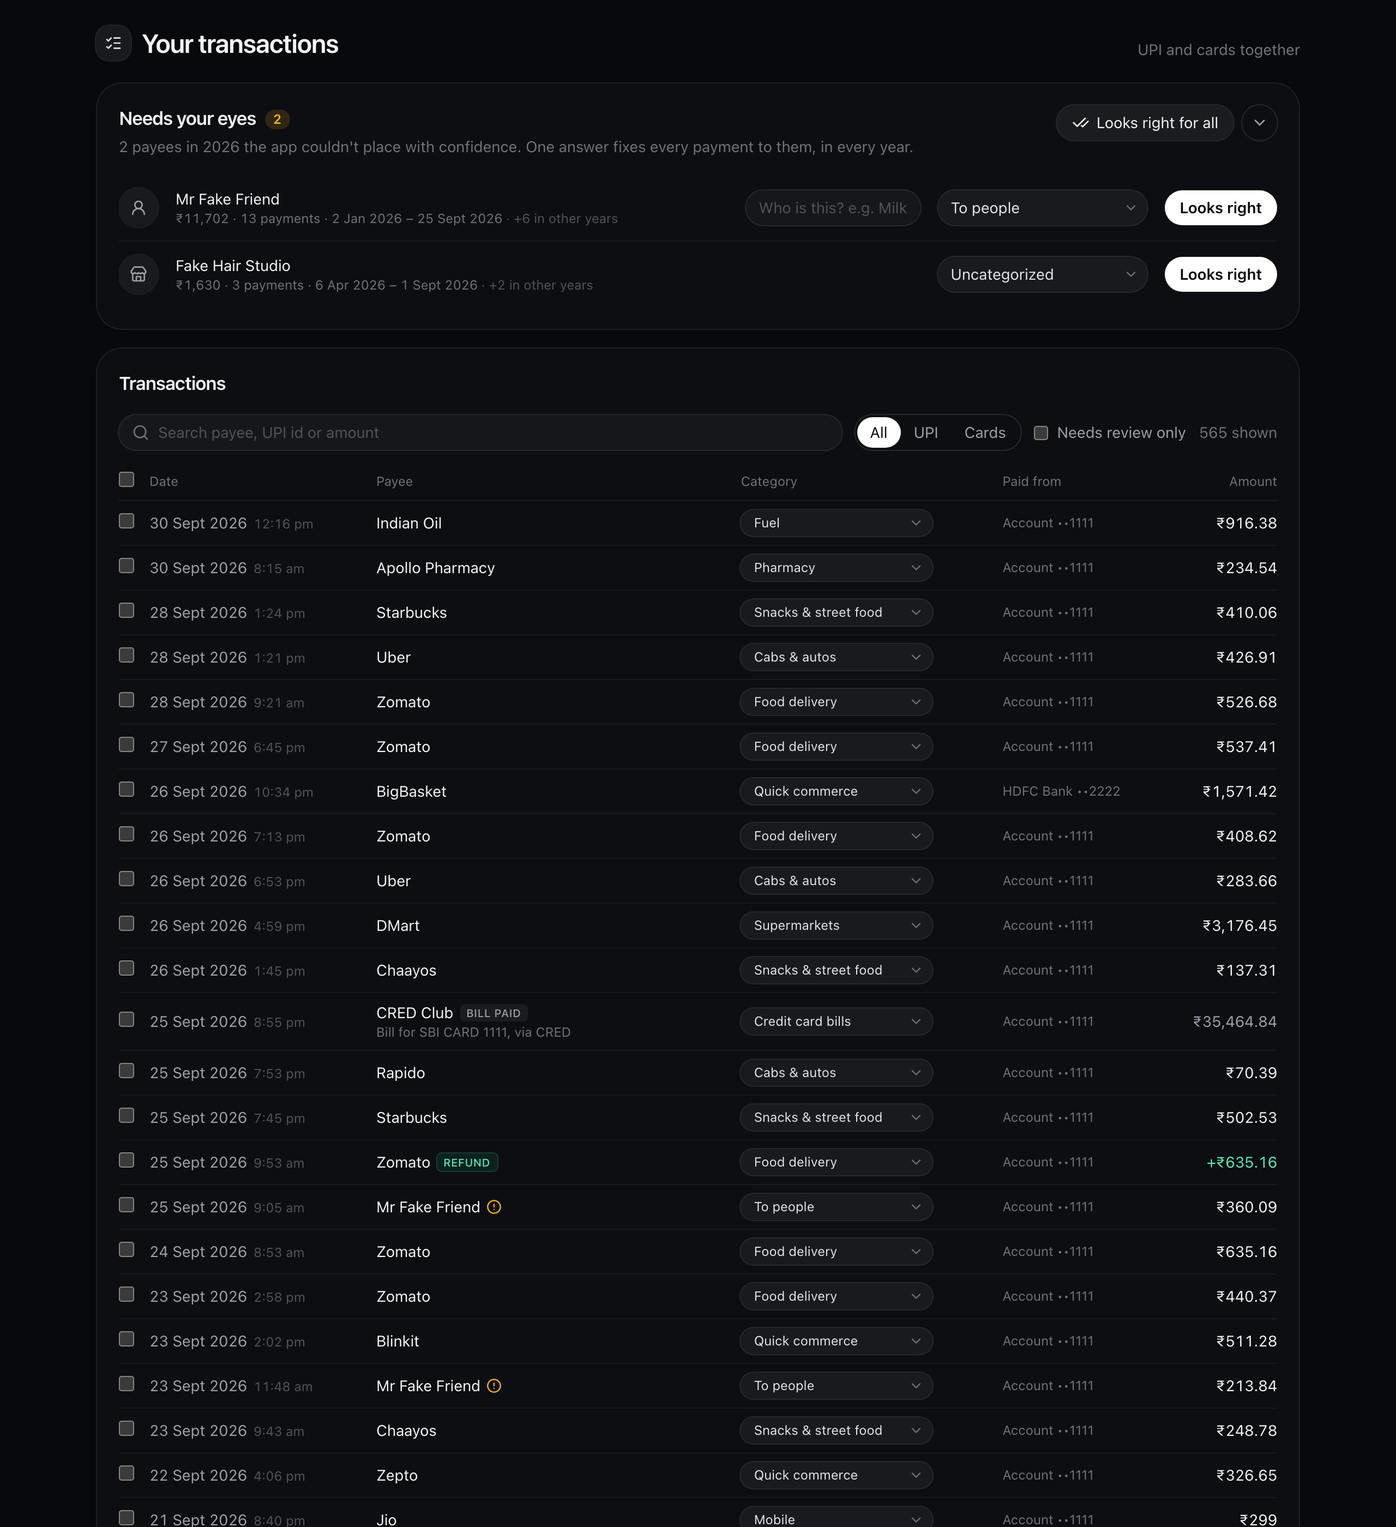
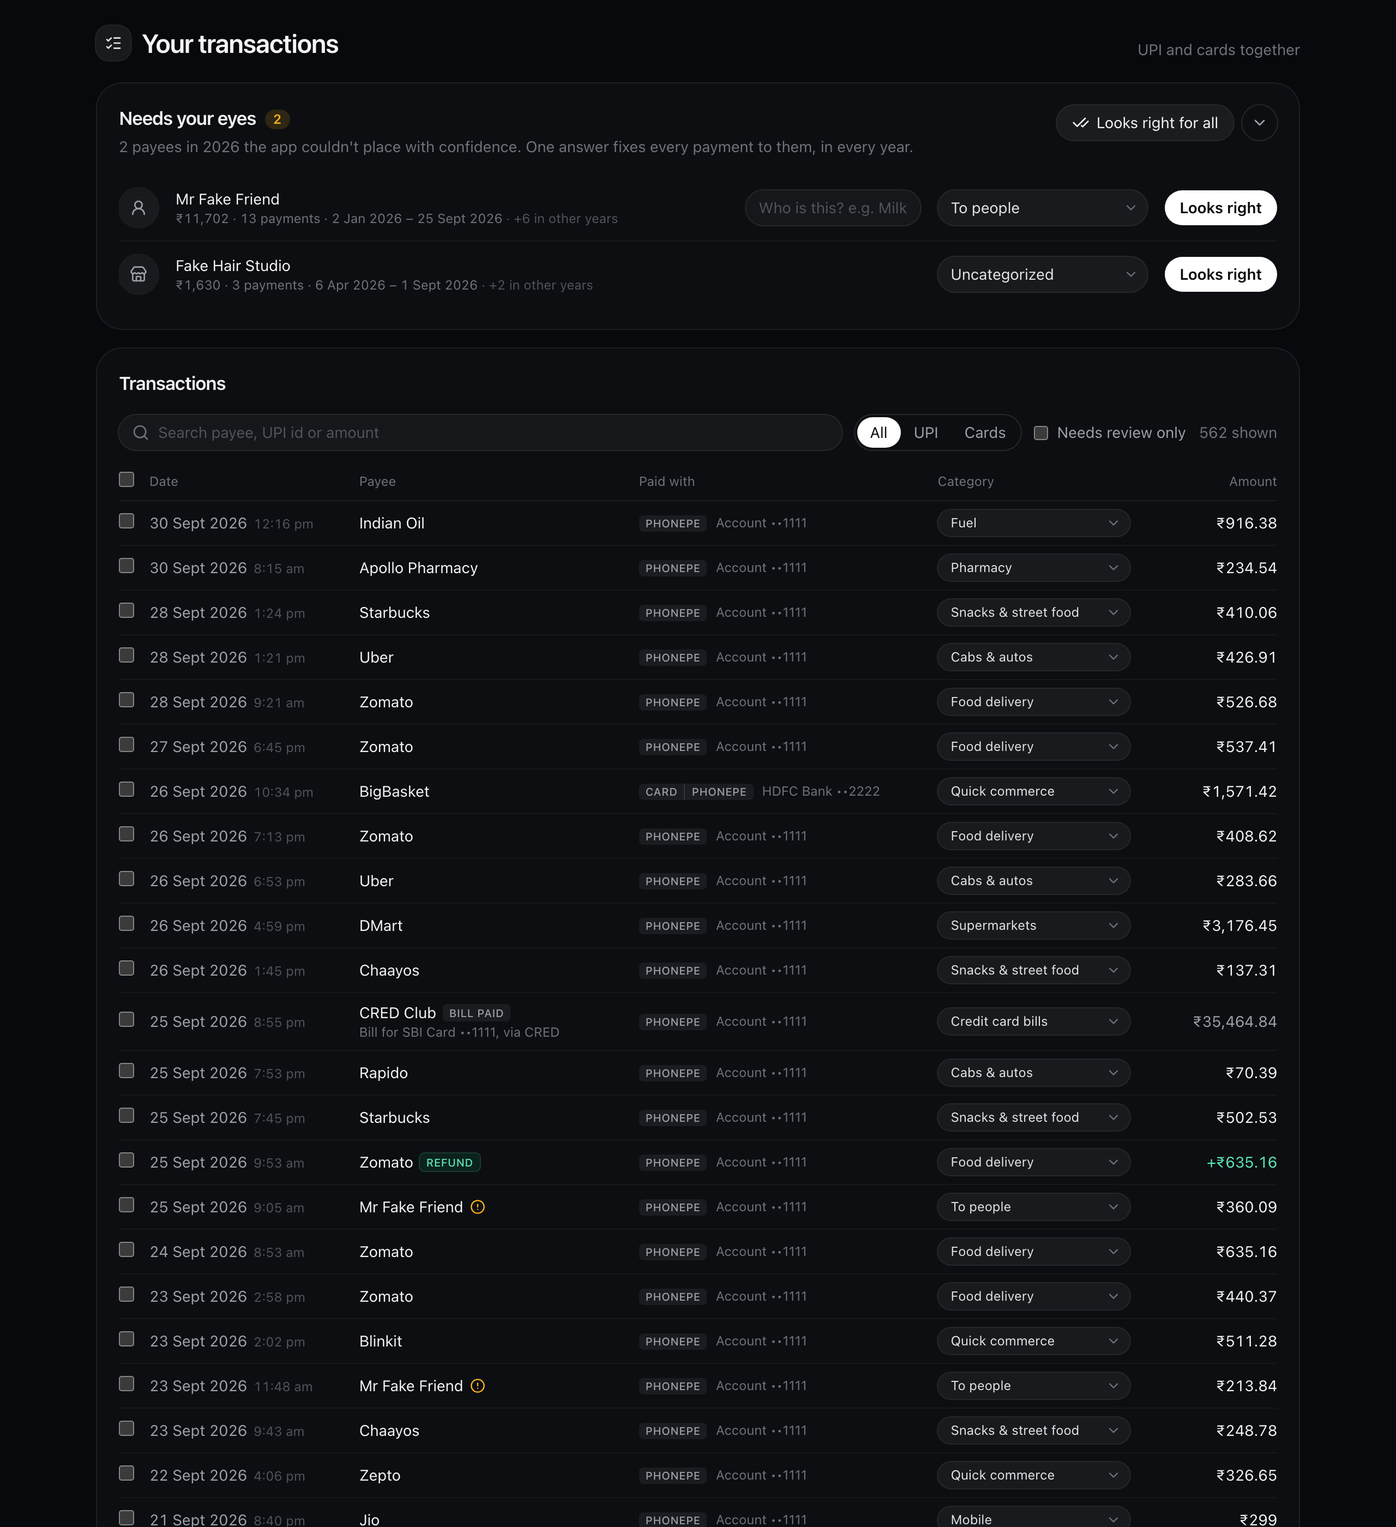
Paid with: how each payment was made, in one chip
The transactions list's columns are now Date, Payee, Paid with, Category,
Amount. Paid with shows how each payment was made, as the files show it, beside
the account or card: CARD (the card's number), PHONEPE, GPAY or PAYTM (UPI in
that app), UPI (the app isn't known), or a card through an app in one two-part
chip: CARD | PHONEPE (a RuPay credit card on UPI), CARD | GPAY, CARD | UPI (only
the card's statement shows it). A card is known as the Paid from label knows
it; tap, swipe and online aren't told apart, since statements don't say. The
chip's tooltip says it in words; a long card name shows whole on hover. The old
Card chip beside the payee is gone: one place for how it was paid.

- lib/ledger.ts howPaid, tested for every case (web/tests/ledger.test.ts).
- Checked in a browser on the demo year: all 562 rows' chips are what each
  payment's data says (written apart from the page's code).
- Docs: DECISIONS #21, GUIDE, ARCHITECTURE, AGENTS; README pictures retaken.
- The roadmap's list: this done, and two to do, written exactly with nothing
  from a real file: page footers taken into payee names (a reader bug), and
  ICCL (BSE's clearing corporation, paid for mutual funds) in the merchant list.

diff --git a/web/src/components/dash/TransactionsTable.tsx b/web/src/components/dash/TransactionsTable.tsx
@@ -3,7 +3,7 @@ import { AlertCircle, Check, CornerDownRight, Search, Sparkles, Undo2, X } from 
 import { Fragment, useEffect, useMemo, useRef, useState } from 'react'
 import { api } from '../../api'
 import { cardName } from '../../lib/cards'
-import { NO_NAME, billNote, billSides, cardSide, countsAs, isCardBill, isIgnored, oneRowPerPayment, paidFromLabel, rowTag, topOf, type Bucket } from '../../lib/ledger'
+import { NO_NAME, billNote, billSides, cardSide, countsAs, howPaid, isCardBill, isIgnored, oneRowPerPayment, paidFromLabel, rowTag, topOf, type Bucket } from '../../lib/ledger'
 import { plural } from '../../lib/format'
 import { inrExact } from '../../lib/money'
 import { dayLabel, timeLabel } from '../../lib/periods'
@@ -423,8 +423,8 @@ export function TransactionsTable({
               </th>
               <th className="py-2 pr-4 font-normal">Date</th>
               <th className="py-2 pr-4 font-normal">Payee</th>
+              <th className="py-2 pr-4 font-normal">Paid with</th>
               <th className="py-2 pr-4 font-normal">Category</th>
-              <th className="py-2 pr-4 font-normal">Paid from</th>
               <th className="py-2 text-right font-normal">Amount</th>
             </tr>
           </thead>
@@ -463,14 +463,6 @@ export function TransactionsTable({
                         {t.payee}
                       </span>
                     )}
-                    {t.channel === 'card' && (
-                      <span
-                        title="From a credit card statement"
-                        className="shrink-0 rounded bg-white/[0.06] px-1.5 py-px text-[10px] font-medium tracking-wide text-zinc-400 uppercase"
-                      >
-                        Card
-                      </span>
-                    )}
                     {tag(t)}
                     {statementChip(cardSide(t, sides), names.card)}
                     {t.needsReview && <AlertCircle aria-label="Needs review" className="size-3.5 shrink-0 text-[var(--color-status-warning)]" />}
@@ -478,14 +470,18 @@ export function TransactionsTable({
                   </div>
                   {detail(t) && <div className="truncate text-xs text-zinc-500" title={detail(t) || undefined}>{detail(t)}</div>}
                 </td>
+                <td className="py-2 pr-4 text-xs text-zinc-500">
+                  <div className="flex max-w-60 items-center gap-2">
+                    {methodChip(t)}
+                    {/* a long card name is cut short: the whole of it, and what it is, on hover */}
+                    <span className="min-w-0 truncate" title={[paidFromLabel(t, cards, accounts).title, paidFromLabel(t, cards, accounts).detail].filter(Boolean).join(' · ')}>
+                      {paidFromLabel(t, cards, accounts).title}
+                    </span>
+                  </div>
+                </td>
                 <td className="py-2 pr-4">
                   <div className="w-44">
                     <CategorySelect tree={tree} value={t.category} onChange={(c) => setOne(t, c)} compact />
-                  </div>
-                </td>
-                <td className="py-2 pr-4 text-xs text-zinc-500">
-                  <div className="max-w-40 truncate" title={paidFromLabel(t, cards, accounts).detail || undefined}>
-                    {paidFromLabel(t, cards, accounts).title}
                   </div>
                 </td>
                 {/* a card bill is neither money in nor spending: no sign, no colour */}
@@ -648,6 +644,25 @@ function OfferRow({
 
 /** A category's name as the dropdown shows it: a top-level category with sub-categories reads "Groceries (general)". */
 /** A row's tag (rowTag): green where money comes in, neutral otherwise. */
+/** How a payment was made ("Paid with"): one chip, in two parts for a card through an app ("Card · PhonePe"). Its
+ *  tooltip says it in words. */
+function methodChip(t: Transaction) {
+  const how = howPaid(t)
+  if (!how) return null
+  return (
+    <span
+      title={how.title}
+      className="inline-flex shrink-0 items-center rounded bg-white/[0.06] text-[10px] font-medium tracking-wide whitespace-nowrap text-zinc-400 uppercase"
+    >
+      {how.parts.map((part, i) => (
+        <span key={part} className={`px-1.5 py-px ${i ? 'border-l border-white/10' : ''}`}>
+          {part}
+        </span>
+      ))}
+    </span>
+  )
+}
+
 /** "+ Statement" on the row of a bill payment whose card's side (the statement's "PAYMENT RECEIVED") is folded into it:
  *  one payment, shown once. */
 function statementChip(onCard: Transaction | undefined, card: (id: string) => string) {

diff --git a/web/tests/ledger.test.ts b/web/tests/ledger.test.ts
@@ -1,7 +1,7 @@
 // How payments are bucketed, placed in months, and told apart by card. Fake data only.
 import assert from 'node:assert/strict'
 import { describe, test } from 'node:test'
-import { billNote, billSides, bucketOf, cardSide, cardsOnUpi, countsAs, cycleShares, describeSource, isCardBill, monthShares, oneRowPerPayment, rowTag, statementMonths, viewFor } from '../src/lib/ledger'
+import { billNote, billSides, bucketOf, cardSide, cardsOnUpi, countsAs, cycleShares, describeSource, howPaid, isCardBill, monthShares, oneRowPerPayment, rowTag, statementMonths, viewFor } from '../src/lib/ledger'
 import { inr, inrExact } from '../src/lib/money'
 import type { Transaction } from '../src/types'
 import { bill, card, ledger, statement, txn } from './fixtures'
@@ -154,5 +154,45 @@ describe('one payment, one row', () => {
     assert.equal(billNote(direct, own, billSides([direct, itsRow]), names), 'Bill for Fake Bank ••1141')
     assert.equal(cardSide(direct, billSides([direct, itsRow]))?.id, 'row')
     assert.equal(billNote(itsRow, own, billSides([itsRow]), names), null) // the statement's row on its own: nothing to add
+  })
+})
+
+describe('how it was paid', () => {
+  const CARD = card('fakebank-1141', '1141')
+  const parts = (over: Partial<Transaction>) => howPaid(txn('2026-08-20', 500, over))?.parts
+  const title = (over: Partial<Transaction>) => howPaid(txn('2026-08-20', 500, over))?.title ?? ''
+
+  test('with the card: its number, or the card through an app', () => {
+    // a card statement's purchase: shop, tap or online, which a statement doesn't say, so it isn't guessed
+    const bought = { channel: 'card' as const, app: null, card: CARD.id, paidFrom: 'XXXX1141' }
+    assert.deepEqual(parts(bought), ['Card'])
+    assert.match(title(bought), /in a shop, tapped, or online/)
+    assert.match(title({ ...bought, direction: 'credit', kind: 'refund' }), /^On your card/)
+    // a RuPay credit card on UPI, in PhonePe: known card, or only its "XXXX41" from the app
+    assert.deepEqual(parts({ channel: 'upi', app: 'phonepe', card: CARD.id }), ['Card', 'PhonePe'])
+    assert.deepEqual(parts({ channel: 'upi', app: 'phonepe', card: null, paidFrom: 'XXXX41' }), ['Card', 'PhonePe'])
+    // a card on UPI only the card's statement shows: the app isn't known
+    assert.deepEqual(parts({ channel: 'upi', app: null, card: CARD.id, paidFrom: 'XXXX1141' }), ['Card', 'UPI'])
+    assert.match(title({ channel: 'upi', app: null, card: CARD.id }), /the app isn't known/)
+    // Google Pay paying with a card (the Play Store and the like)
+    assert.deepEqual(parts({ channel: 'card', app: 'gpay', card: null, paidFrom: 'XXXX1141' }), ['Card', 'GPay'])
+  })
+
+  test('on UPI from your account: the app it was paid in, or just UPI', () => {
+    assert.deepEqual(parts({ app: 'phonepe', paidFrom: 'XX1111' }), ['PhonePe'])
+    assert.deepEqual(parts({ app: 'gpay', paidFrom: 'XX1111' }), ['GPay'])
+    assert.deepEqual(parts({ app: 'paytm', paidFrom: 'XX1111' }), ['Paytm'])
+    assert.deepEqual(parts({ app: null, paidFrom: 'XX1111' }), ['UPI'])
+    assert.deepEqual(parts({ app: 'some-new-app', paidFrom: 'XX1111' }), ['UPI']) // an app Plutus doesn't know isn't named
+    assert.match(title({ app: 'gpay' }), /^Paid on UPI in Google Pay/)
+    assert.match(title({ app: 'phonepe', direction: 'credit', kind: 'income' }), /^Received on UPI in PhonePe/)
+    // an account's last four digits that happen to look like a card's: an account, unless one of your cards has them
+    assert.deepEqual(parts({ app: 'phonepe', card: null, paidFrom: 'XXXX4321' }), ['PhonePe'])
+  })
+
+  test('a PhonePe gift card balance is PhonePe, not UPI; anything else unknown shows nothing', () => {
+    assert.deepEqual(parts({ app: 'phonepe', paidFrom: 'Gift card' }), ['PhonePe'])
+    assert.match(title({ app: 'phonepe', paidFrom: 'Gift card' }), /gift card balance/)
+    assert.equal(howPaid(txn('2026-08-20', 500, { channel: 'other' })), null)
   })
 })

diff --git a/web/src/lib/ledger.ts b/web/src/lib/ledger.ts
@@ -510,6 +510,40 @@ export function paidFromLabel(t: Transaction, cards: Instrument[], accounts: Own
   return t.paidFrom ? describeSource(t.paidFrom, cards, accounts) : { title: '—', detail: '' }
 }
 
+/** The UPI apps whose histories Plutus reads (a short name for the chip, the full one for words). */
+const APPS: Record<string, { chip: string; name: string }> = {
+  phonepe: { chip: 'PhonePe', name: 'PhonePe' },
+  gpay: { chip: 'GPay', name: 'Google Pay' },
+  paytm: { chip: 'Paytm', name: 'Paytm' },
+}
+
+/** How a payment was made, for the transactions list's "Paid with": the card's number ("Card"), a UPI app
+ *  ("PhonePe", "GPay", "Paytm", or "UPI" when the app isn't known), or a card through an app ("Card · PhonePe": a
+ *  RuPay credit card on UPI; "Card · GPay": a card in Google Pay). A card is known the way `describeSource` knows it:
+ *  a card's row, a card of yours, or an app's "XXXX99". Only what the files say: a statement doesn't say whether a
+ *  card was tapped, swiped or used online, so none of that is guessed. */
+export function howPaid(t: Transaction): { parts: string[]; title: string } | null {
+  if (t.channel === 'other') return null
+  const app = t.app ? APPS[t.app] : undefined // an app Plutus doesn't know isn't named
+  const received = t.direction === 'credit'
+  if (/^gift card$/i.test(t.paidFrom ?? '')) return { parts: [app?.chip ?? 'PhonePe'], title: 'Paid in PhonePe from your gift card balance' }
+  if (t.channel === 'card') {
+    if (app) return { parts: ['Card', app.chip], title: `${received ? 'Back to your card' : 'Paid with your card'} in ${app.name}` }
+    return received
+      ? { parts: ['Card'], title: 'On your card: money back to it, or a payment to it' }
+      : { parts: ['Card'], title: "Paid with your card's number: in a shop, tapped, or online (the statement doesn't say which)" }
+  }
+  const withCard = !!t.card || /^X{4}\d{2}$/i.test(t.paidFrom ?? '')
+  if (withCard) {
+    return app
+      ? { parts: ['Card', app.chip], title: `${received ? 'Back to your credit card' : 'Paid with your credit card'} on UPI, in ${app.name}` }
+      : { parts: ['Card', 'UPI'], title: `${received ? 'Back to your credit card' : 'Paid with your credit card'} on UPI: your card's statement shows it, the app isn't known` }
+  }
+  return app
+    ? { parts: [app.chip], title: `${received ? 'Received' : 'Paid'} on UPI in ${app.name}` }
+    : { parts: ['UPI'], title: `${received ? 'Received' : 'Paid'} on UPI; the app isn't known` }
+}
+
 /** "XX4321" → Account ••4321, "XXXX99" → Card ••99 (+ which card of yours it is), "XXXX4321" → that card. */
 export function describeSource(mask: string, cards: Instrument[], accounts: OwnAccount[] = []): { title: string; detail: string } {
   if (/^gift card$/i.test(mask)) return { title: 'PhonePe gift card', detail: 'Cashback balance' }

diff --git a/docs/ROADMAP.md b/docs/ROADMAP.md
@@ -13,6 +13,12 @@ The owner's list of upgrades, agreed on 7 October 2026. Each has its notes below
 4. [Measure the suggested local models](#measure-the-suggested-local-models-on-plutuss-own-jobs): needs the model
    downloaded by its owner first; Plutus never downloads one.
 5. [Ask Plutus, next](#ask-plutus-next): why questions, saved chats if wanted, actions from the chat.
+6. ~~"Paid with" in the transactions list~~: done; see [DECISIONS.md](DECISIONS.md) #21.
+7. [Page footers in payee names](#page-footers-in-payee-names): a statement reader bug.
+8. [ICCL in the merchant list](#iccl-in-the-merchant-list): payments for mutual funds left uncategorized.
+
+Each is done exactly: reproduced with fake data first, nothing assumed about a file or a name that a source or a
+test hasn't shown.
 
 ## Discussed, not built
 
@@ -24,6 +30,28 @@ India's seasons as periods in `web/src/lib/askRules.ts`, the same as the AI is t
 February, summer March to June, monsoon July to September; "last winter" the latest one that has ended, "this
 monsoon" or "the monsoon" the latest one that has begun. A season with a year ("winter 2025": which winter?) stays
 unsure and goes to the AI. Tests in `web/tests/askRules.test.ts`.
+
+### Page footers in payee names
+
+Seen on a real statement (not copied here): a payee read as "<a merchant> <city> Page 16 of", and its row's full
+wording ends "Page 16 of 19": the page's footer was taken into a row's description. Where it joins isn't known yet and
+must be found, not guessed: reproduce it in `tests/fake_cards.py` (a statement whose footer "Page N of M" sits under a
+page's last row, in each layout the readers know), see which step takes it in (`card_statement.read_rows`,
+`shape_reader.py`, wrapped-line joining, or `clean_merchant`), fix it in general (a page's furniture never joins a
+row), then follow the readers' procedure in [READERS.md](READERS.md): `make test`, `make measure` with nothing wrong or
+unread, and `PARSER_VERSIONS` bumped so files read before are read again.
+
+### ICCL in the merchant list
+
+Payments to "ICCLGroww" (seen in a real UPI history; the names are public) are left Uncategorized. ICCL is the Indian
+Clearing Corporation Ltd, a wholly owned subsidiary of BSE that clears and settles its segments, the mutual fund one
+(StAR MF) included; brokers' mutual fund purchases are paid to it (sources:
+[BSE](https://bseindia.com/downloads1/Indian_Clearing_Corporation_Limited.PDF),
+[Zerodha](https://support.zerodha.com/category/mutual-funds/payments-and-orders/payment-methods/articles/add-funds-coin-new)).
+So a payment to ICCL is an investment, whichever platform's name follows it. To do, each step checked rather than
+assumed: how the name is written in each source (PhonePe, Google Pay, card and bank statements: "ICCL", "ICCLGroww",
+"Indian Clearing Corporation"), an entry in `app/seed/merchants.json` under Investments with a test, and what money
+back from ICCL (a redemption, or an order that wasn't allotted) counts as.
 
 ### Ask Plutus, next
 

diff --git a/docs/DECISIONS.md b/docs/DECISIONS.md
@@ -196,3 +196,19 @@ rows; a payment and its posting in different years show in each year's list on t
 **Where**: `app/categorize.py` (`link_card_bills`), `app/billing.py` (`statement_bills`), `app/ledger.py` (`_place`);
 `web/src/lib/ledger.ts` (`billSides`, `oneRowPerPayment`, `billNote`, `cardSide`),
 `components/dash/TransactionsTable.tsx`.
+
+## 21. How a payment was made: one chip, from what the files say
+
+**Decision**: each row of the transactions list says how the payment was made in one neutral chip in the "Paid with"
+column (right after the payee, before the category: Date, Payee, Paid with, Category, Amount, as the owner set it),
+beside the account or card: **Card** (the card's number), **PhonePe**, **GPay** or **Paytm** (UPI in that
+app), **UPI** (the app isn't known), or a card through an app in one chip of two parts (**Card · PhonePe**, a RuPay
+credit card on UPI; **Card · GPay**; **Card · UPI** when only the card's statement shows it). A card is known the
+way the "Paid from" label knows it; the app is the one whose history the payment came from. Its tooltip says it in
+words.
+**Why**: the owner asked for card, card-on-UPI and each app to be told apart. Kept in its own column, the chips line
+up for scanning and sit with the account they describe; the payee column keeps only status tags (Bill paid, Refund,
++ Statement). No brand colours or logos: the look stays neutral, and the app names only identify where a payment was
+read. Tap, swipe and online aren't told apart because statements don't reliably say which, and Plutus doesn't guess.
+**Where**: `web/src/lib/ledger.ts` (`howPaid`), `components/dash/TransactionsTable.tsx`; tests in
+`web/tests/ledger.test.ts`.

diff --git a/docs/GUIDE.md b/docs/GUIDE.md
@@ -186,6 +186,13 @@ their line's end, since lines can cross anywhere and more colours would be too c
 - **Who you paid most** lists people and shops, never card bills: a bill pays your own card, and what the card bought
   is in the Credit cards section.
 
+**Paid with**, in the transactions list, says how each payment was made, as your files show it: **Card** for a
+purchase with the card's number (in a shop, tapped, or online: a statement doesn't say which, so Plutus doesn't
+guess), **PhonePe**, **GPay** or **Paytm** for UPI in that app, **UPI** when the app isn't known, and both for a credit
+card used through an app: **Card · PhonePe** (a RuPay credit card on UPI), **Card · GPay** (a card in Google Pay), or
+**Card · UPI** when only the card's statement shows the payment. Beside it, the account or card it was paid from;
+hover the chip to have it in words.
+
 **Changing categories** in the transactions list:
 
 - **One payment**: its category dropdown. You're then offered to change that payee's other payments too ("Change

diff --git a/AGENTS.md b/AGENTS.md
@@ -174,6 +174,8 @@ Backend tests alone: `cd backend && .venv/bin/python -m pytest -q`. Web: `cd web
   Years and colour slots come from the unscoped ledger. Browser storage is only for how panels were left (collapsed,
   ticks), never for choices that change numbers.
 - Rows where money comes in carry a green tag (`rowTag` in `lib/ledger.ts`); a card bill's amount is grey, unsigned.
+  How a payment was made is one neutral chip in the list's "Paid with" column (`howPaid`): only what the files say
+  (the channel, the app whose history it came from, a card), never a guess (tap, swipe or online).
 - One payment, one row: every side of a card bill payment points to its bill (`settles`: the UPI payment, the
   statement's "PAYMENT RECEIVED"; set in `categorize.link_card_bills` and `billing.statement_bills` when bills are
   placed). The transactions list folds them into the side you paid from (`oneRowPerPayment`, "+ Statement"), and a

diff --git a/docs/ARCHITECTURE.md b/docs/ARCHITECTURE.md
@@ -316,7 +316,7 @@ year tabs, every section, and Ask Plutus), `pages/CardGallery.tsx` (every card d
 
 | File | What it does |
 |---|---|
-| `lib/ledger.ts` | The ledger as the page uses it: buckets, card bills, row tags, one payment one row (a bill's sides folded: `billSides`, `oneRowPerPayment`, `billNote`), the view for a period |
+| `lib/ledger.ts` | The ledger as the page uses it: buckets, card bills, row tags, how each payment was paid (`howPaid`: the list's "Paid with"), one payment one row (a bill's sides folded: `billSides`, `oneRowPerPayment`, `billNote`), the view for a period |
 | `lib/totals.ts` | Total spend for a period, cards and UPI together, counted once; colours fixed per category |
 | `lib/cards.ts` | Spending per card (card-number purchases only); colours per card |
 | `lib/periods.ts` | Calendar years, months, labels |

diff --git a/README.md b/README.md
@@ -145,7 +145,7 @@ the billing step places each card bill in the cycle it paid for.
 
 ![UPI spends: by category and month, where payments were debited from, and who you paid most](docs/screenshots/upi.png)
 
-![Your transactions: payees waiting for an answer, and every payment with its category and source](docs/screenshots/transactions.png)
+![Your transactions: payees waiting for an answer, and every payment with its category and how it was paid (PhonePe, a card, or a card on UPI)](docs/screenshots/transactions.png)
 
 ![Your vault: every file added, what it was read as, and whether each statement adds up](docs/screenshots/vault.png)
 
